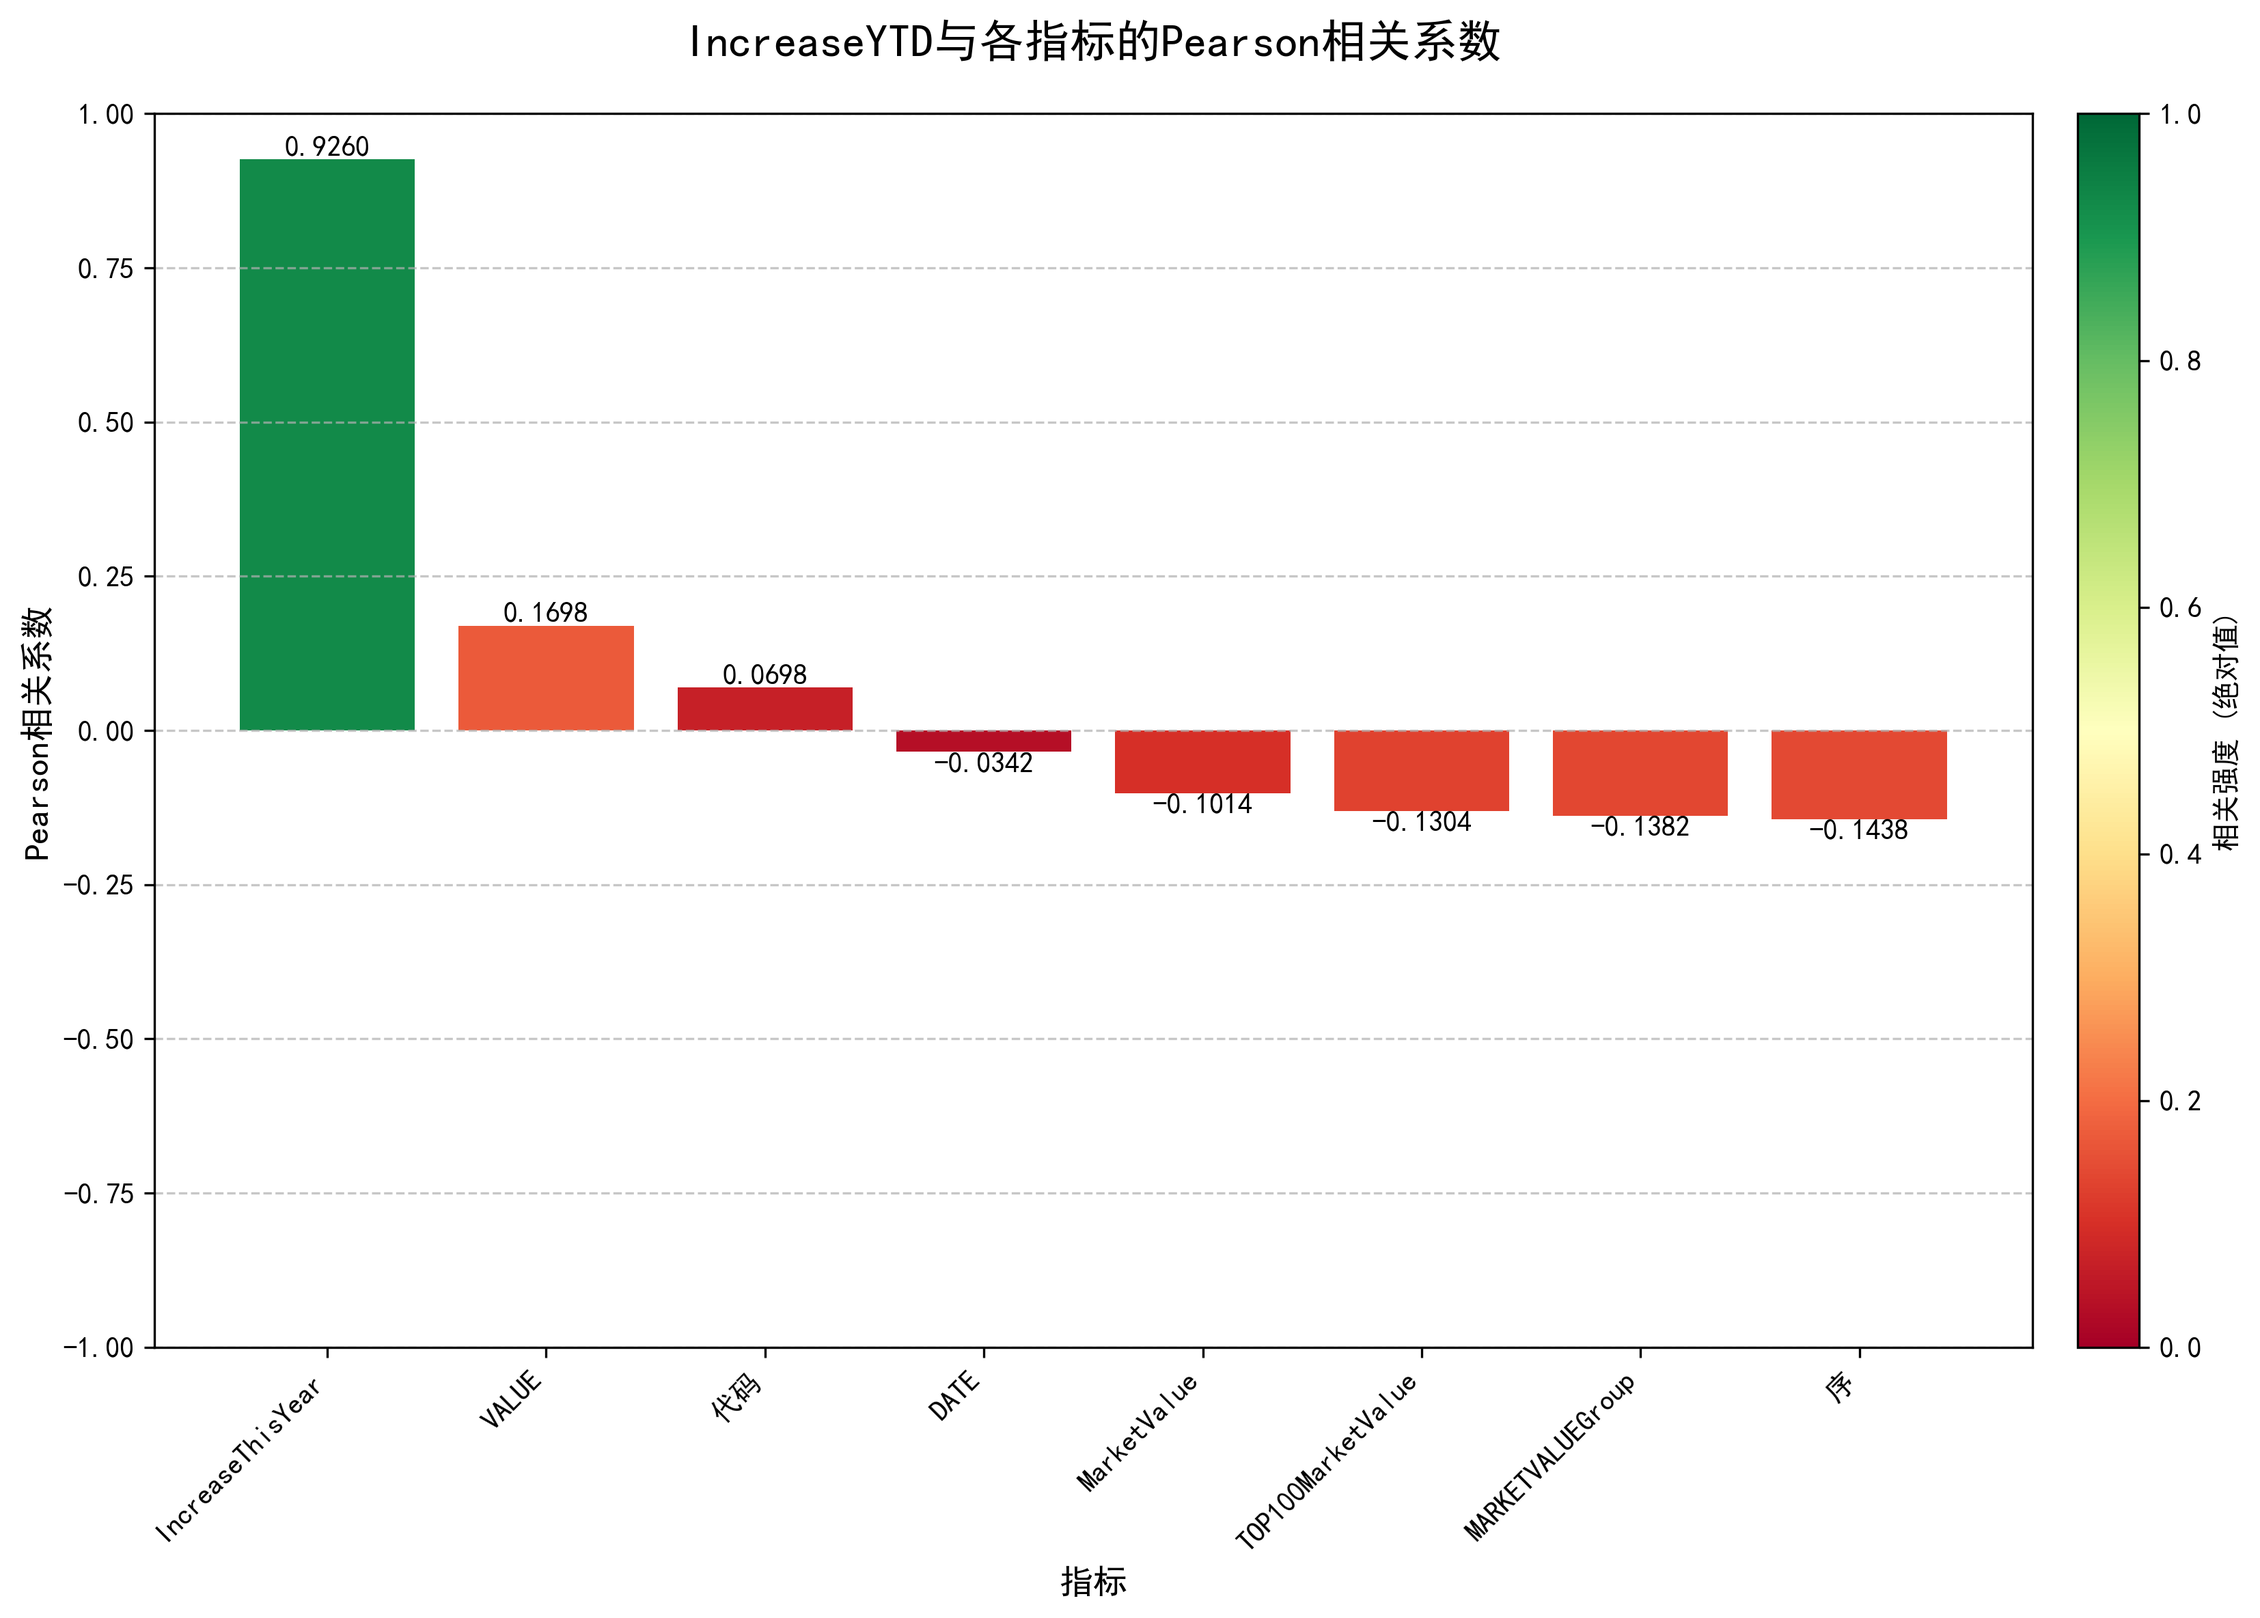
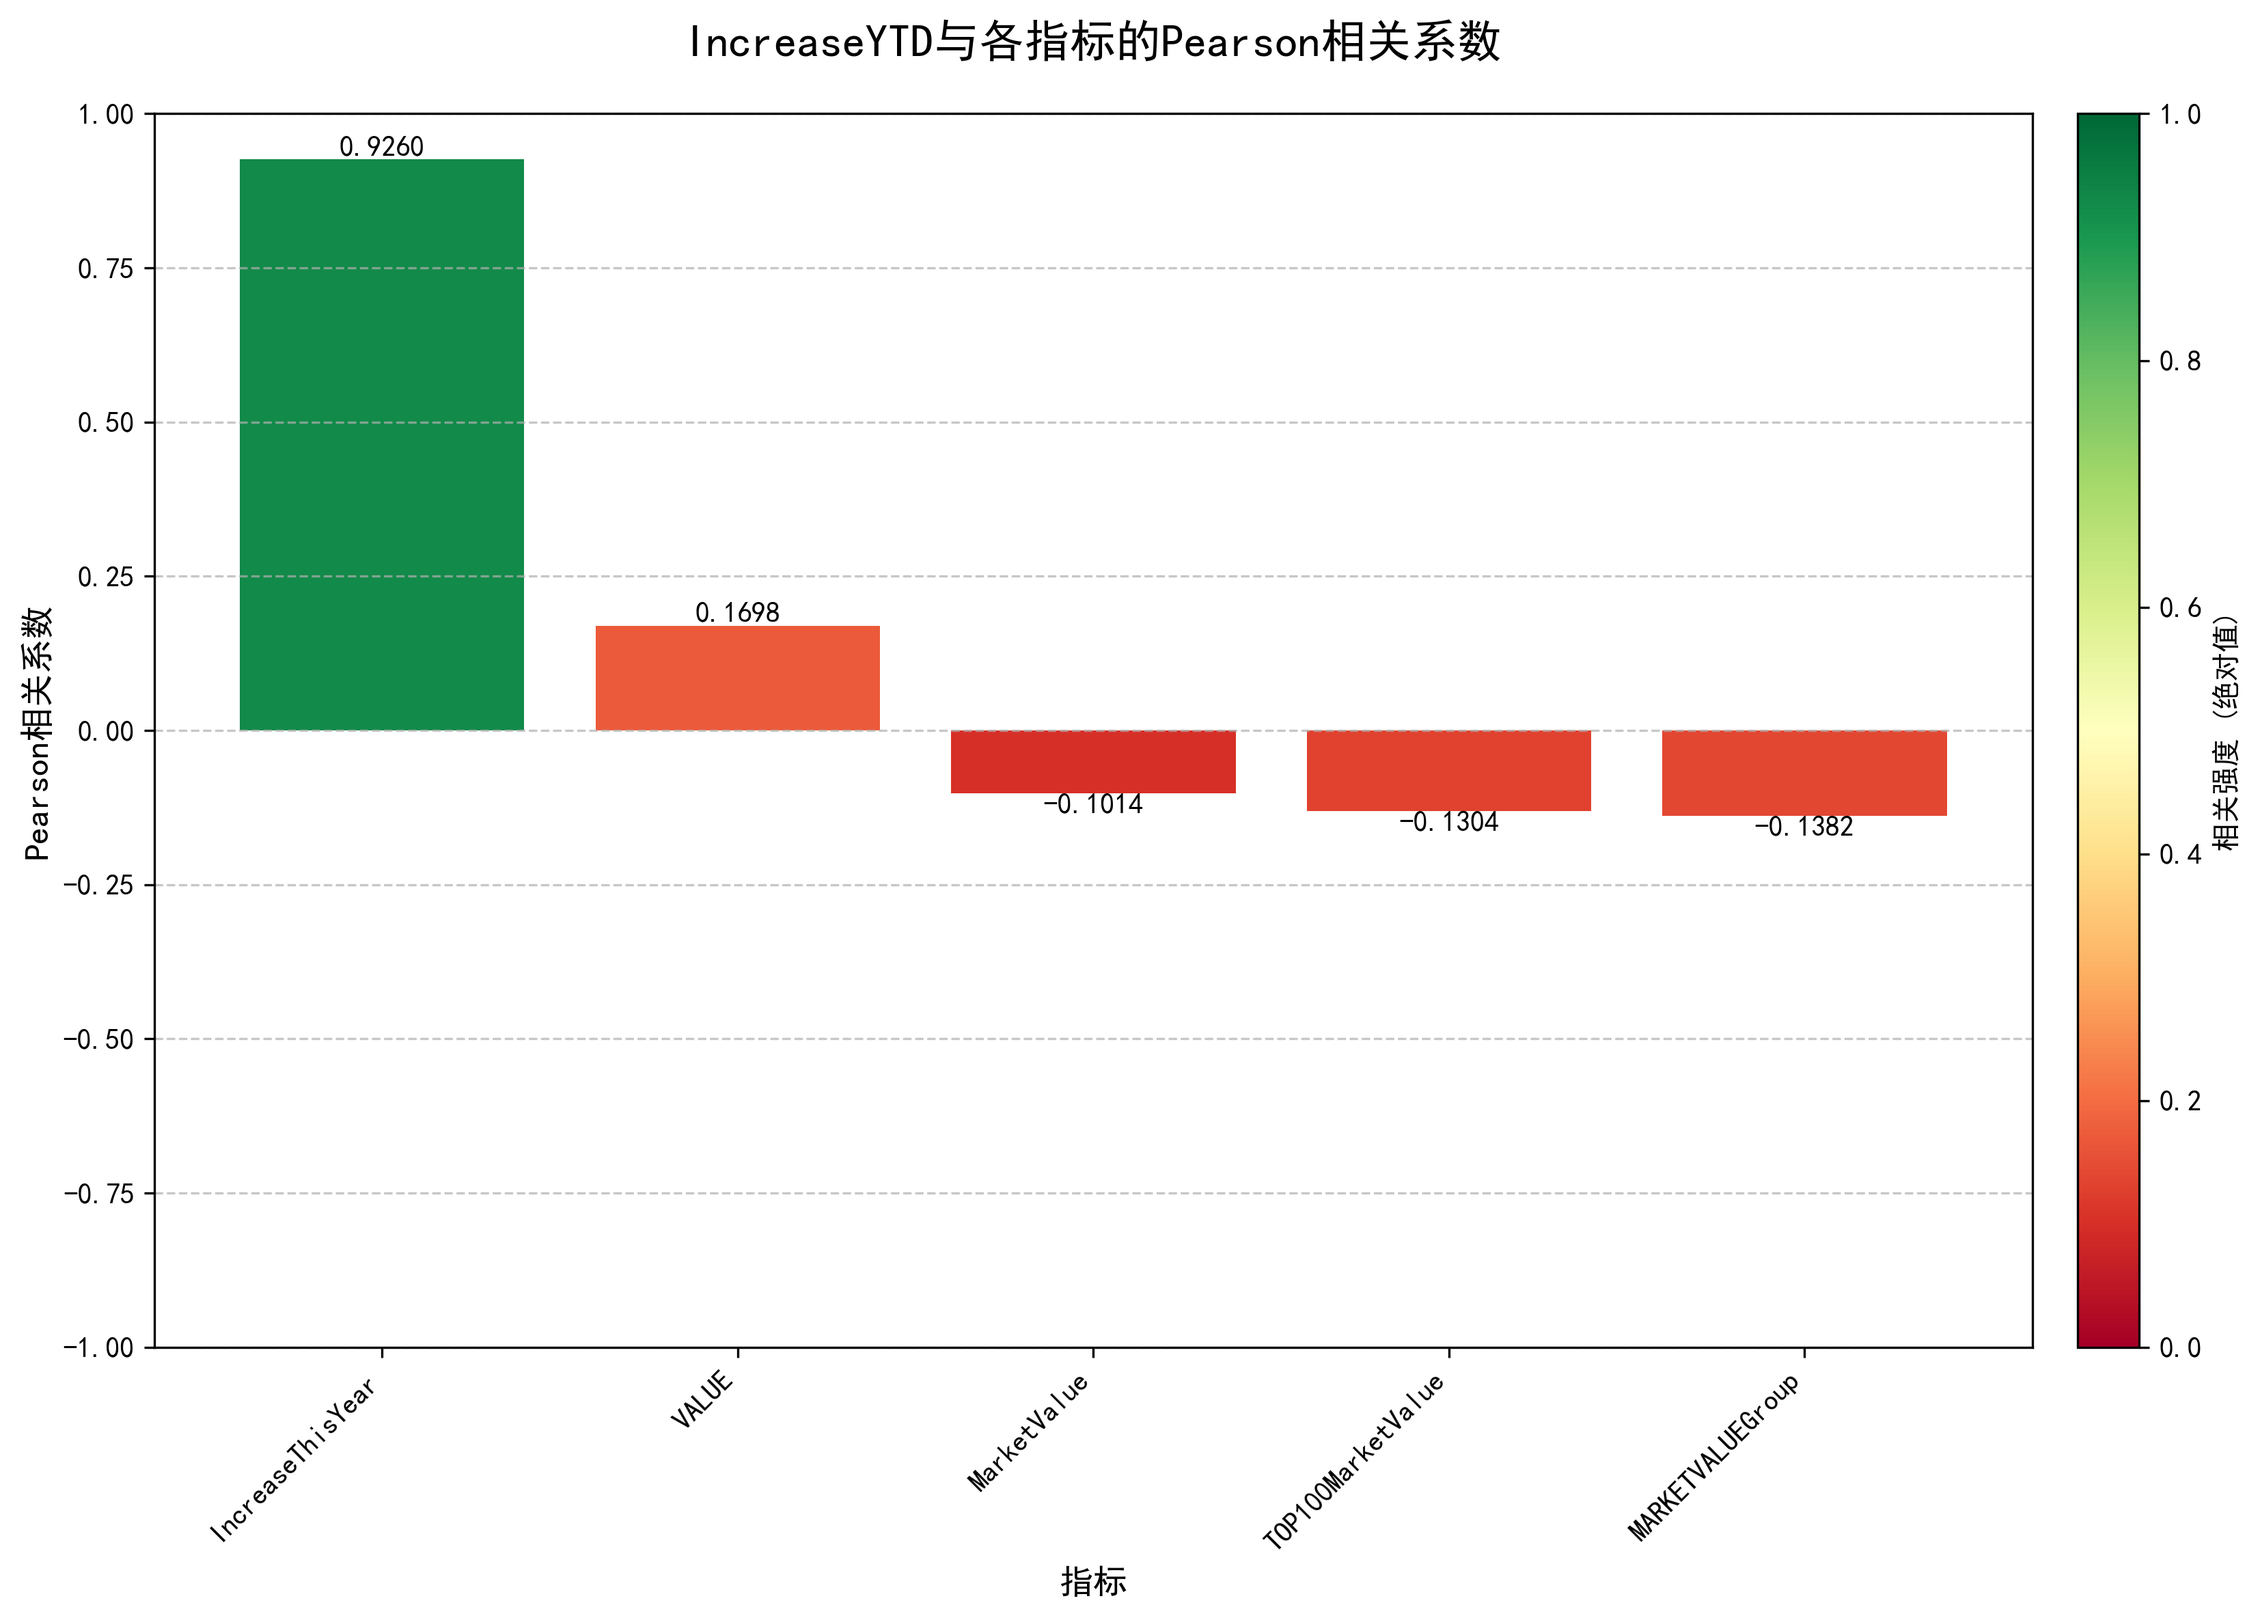
恢复到第一轮分析结果：仅保留有实际经济意义的指标

diff --git a/analysis.py b/analysis.py
@@ -24,9 +24,8 @@ print("\n数据列:", df.columns.tolist())
 print("\n数据清洗前的缺失值情况:")
 print(df.isnull().sum())
 
-# 共7个指标与IncreaseYTD进行分析（包括DATE, 序, 代码等所有可用数值指标）
-analysis_columns = ['VALUE', 'IncreaseThisYear', 'IncreaseYTD', 'MarketValue', 'MARKETVALUEGroup', 'TOP100MarketValue', 'DATE', '序', '代码']
-# 注意：DATE是日期格式，转换为数值用于相关性分析
+# 仅选择有实际经济意义的指标进行分析
+analysis_columns = ['VALUE', 'IncreaseThisYear', 'IncreaseYTD', 'MarketValue', 'MARKETVALUEGroup', 'TOP100MarketValue']
 
 # 删除包含缺失值的行
 df_clean = df[analysis_columns].dropna()
@@ -79,9 +78,8 @@ print("\n" + "="*60)
 print("典型相关分析 (Canonical Correlation Analysis)")
 print("="*60)
 
-# 将IncreaseYTD作为因变量集合，其他指标作为自变量集合（共8个自变量，与IncreaseYTD组成9列）
-# 7个自变量：VALUE, IncreaseThisYear, MarketValue, MARKETVALUEGroup, TOP100MarketValue, DATE, 序, 代码
-X = df_clean[['VALUE', 'IncreaseThisYear', 'MarketValue', 'MARKETVALUEGroup', 'TOP100MarketValue', 'DATE', '序', '代码']].values
+# 将IncreaseYTD作为因变量集合，其他指标作为自变量集合（共5个有实际经济意义的自变量）
+X = df_clean[['VALUE', 'IncreaseThisYear', 'MarketValue', 'MARKETVALUEGroup', 'TOP100MarketValue']].values
 Y = df_clean[['IncreaseYTD']].values
 
 # 标准化数据
@@ -103,7 +101,7 @@ print(f"典型相关系数: {canonical_corr:.4f}")
 
 # 获取权重
 print("\n自变量的典型权重:")
-for i, col in enumerate(['VALUE', 'IncreaseThisYear', 'MarketValue', 'MARKETVALUEGroup', 'TOP100MarketValue', 'DATE', '序', '代码']):
+for i, col in enumerate(['VALUE', 'IncreaseThisYear', 'MarketValue', 'MARKETVALUEGroup', 'TOP100MarketValue']):
     print(f"{col}: {cca.x_weights_[i][0]:.4f}")
 
 print(f"\n因变量IncreaseYTD的典型权重:")
